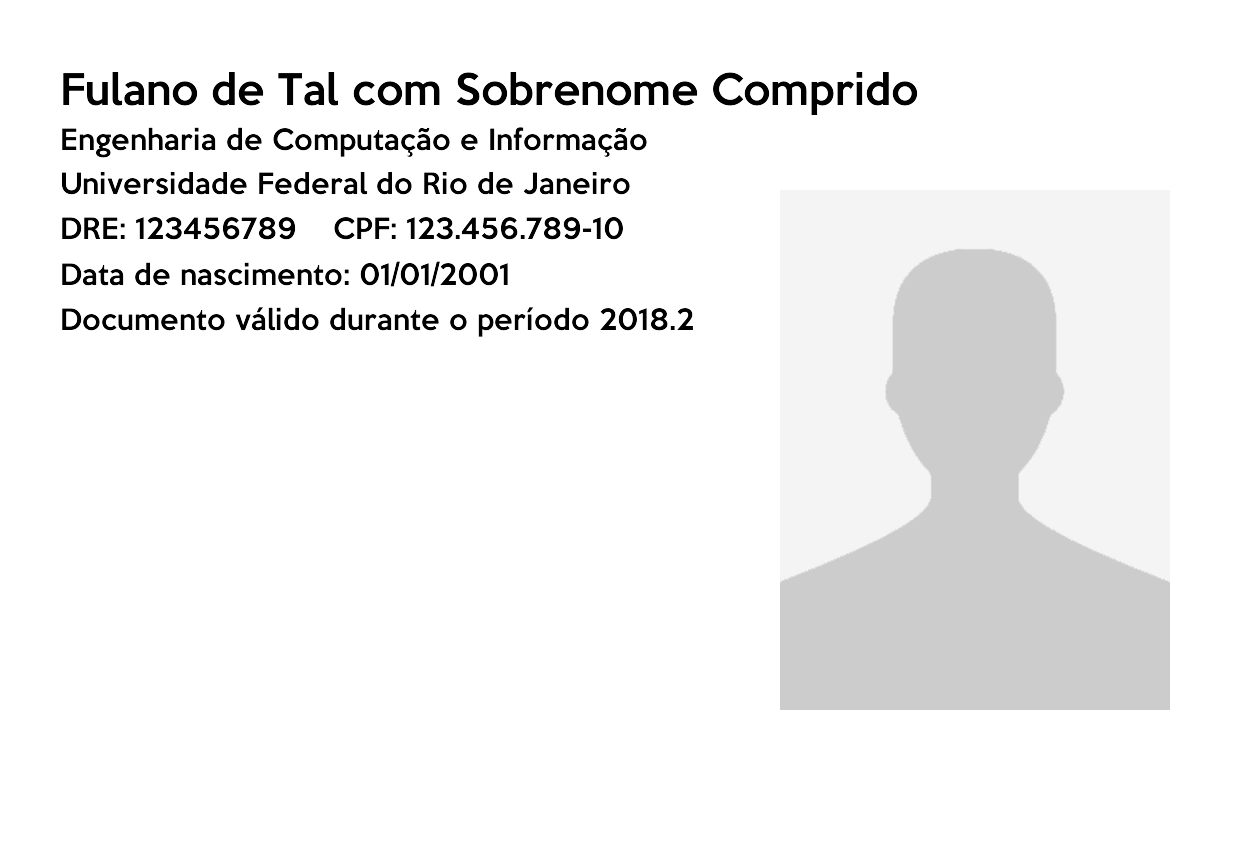
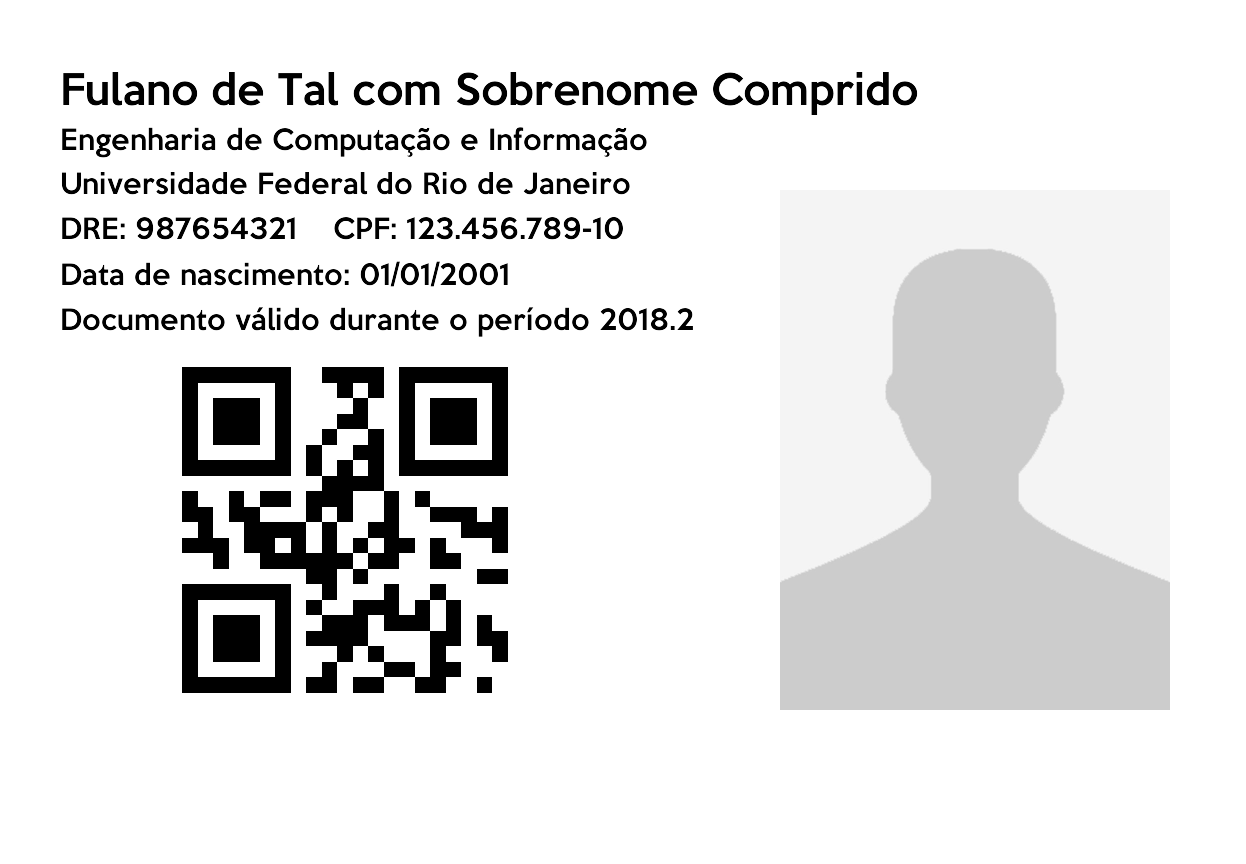
QR Code
Gerando um código com base no DRE.

Changed region(s): [[0.122, 0.4062, 0.427, 0.8125], [0.0915, 0.25, 0.244, 0.2812]]

diff --git a/carteirinha.py b/carteirinha.py
@@ -1,8 +1,9 @@
 import sys
 from PIL import Image, ImageDraw, ImageFont
+import qrcode
 
 nome='Fulano de Tal com Sobrenome Comprido'
-dre='123456789'
+dre='987654321'
 cpf='123.456.789-10'
 curso='Engenharia de Computação e Informação'
 periodoAtual='2018.2'
@@ -10,7 +11,6 @@ diaN = 1
 mesN = 1
 anoN = 2001
 dataN = str(diaN).zfill(2) + '/' + str(mesN).zfill(2) + '/' + str(anoN)
-
 
 def imprimir(x,y,texto,tamanho,drawobj):
 	f = ImageFont.truetype('KeepCalm-Medium.ttf', tamanho)
@@ -37,6 +37,11 @@ imprimir (margem, altura[3], 'DRE: '+dre+'    CPF: '+cpf,27,d)
 imprimir (margem, altura[4], 'Data de nascimento: ' + dataN,27,d)
 imprimir (margem, altura[5], 'Documento válido durante o período '+periodoAtual,27,d) #inserir data do fim do período?
 
+qrSize = 450
+qrc = qrcode.make(dre)
+qrc = qrc.resize((qrSize,qrSize))
+
+img.paste(qrc,(120,305))
 out = Image.alpha_composite(img, txt)
 out.save("carteirinha.png", "PNG")
 
